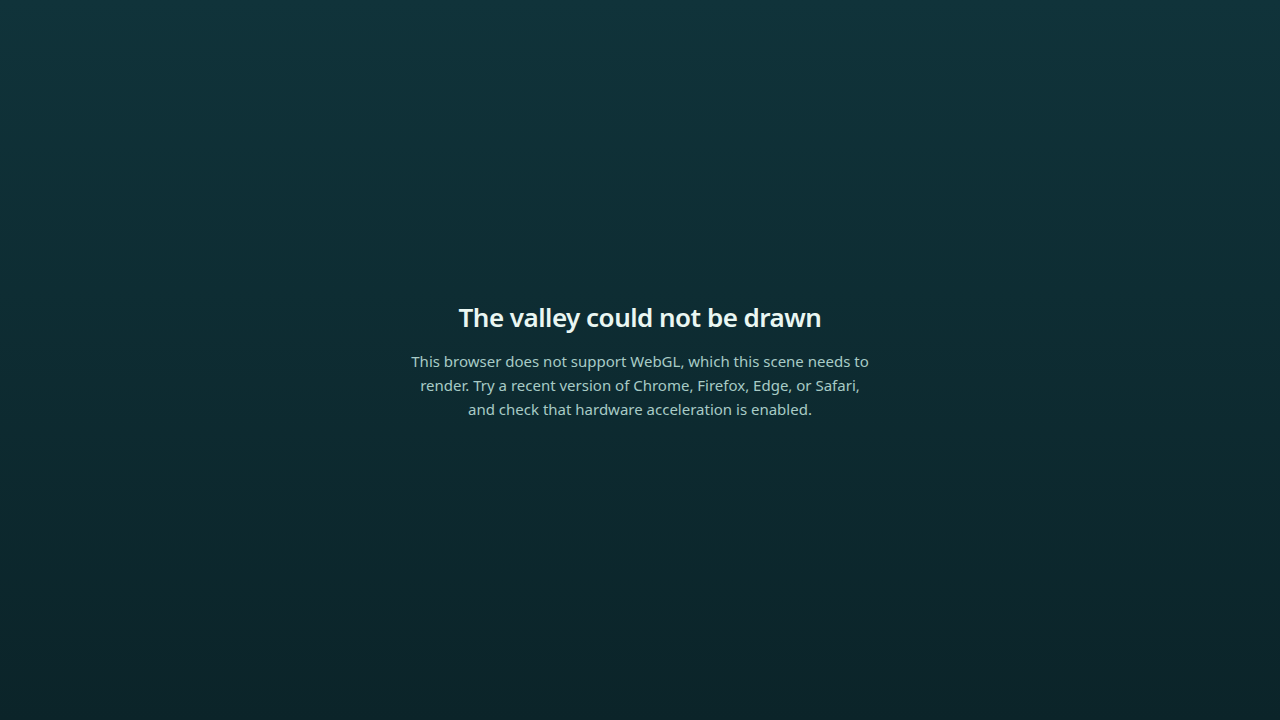
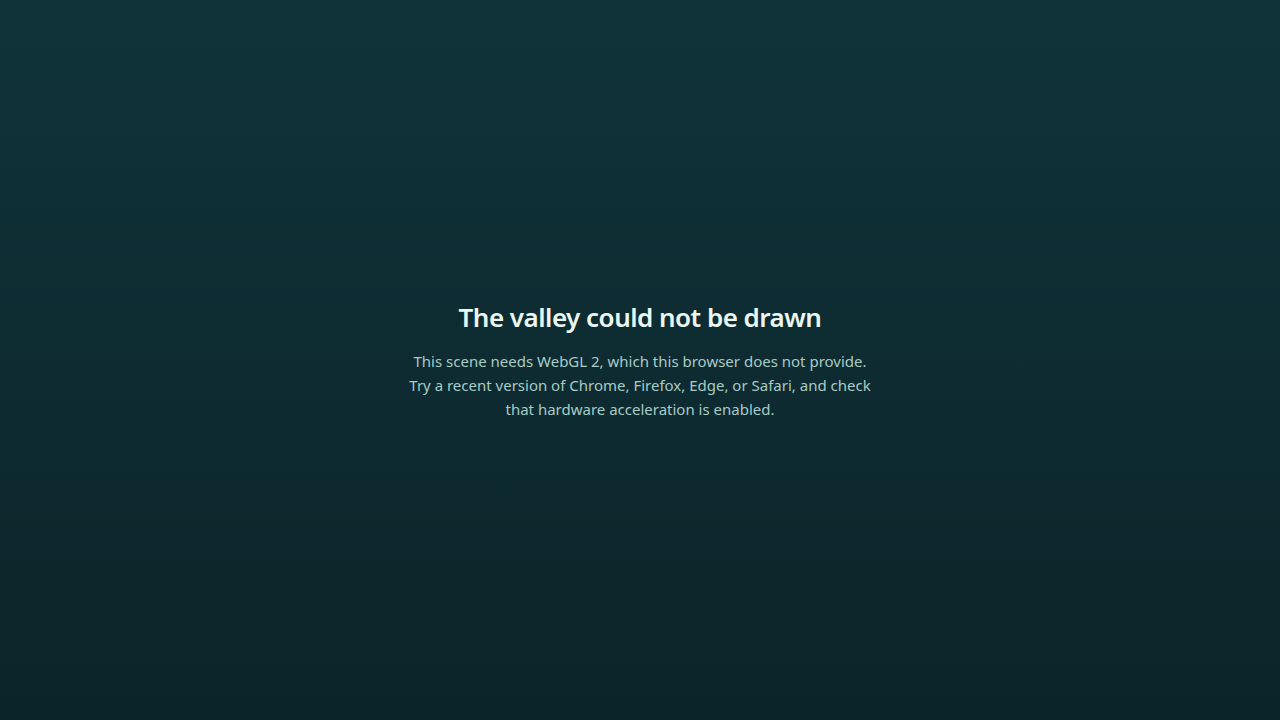
fix(app): require WebGL 2 in the capability probe
Owner review on PR #6 found that the probe accepted a WebGL 1 context. Verified
against the installed dependency: node_modules/three/build/three.module.js
(three 0.180.0) requests only `const contextName = 'webgl2'` and has no WebGL 1
fallback. A WebGL-1-only browser therefore passed the preflight and then failed
during renderer construction, taking the less accurate
`context-creation-failed` path.

- detectWebGLSupport probes webgl2 only, and the message now names WebGL 2.
- The unit test that asserted WebGL 1 was sufficient is replaced with one
  asserting it is rejected, plus a test that 'webgl' is never queried.
- The smoke test gains a webgl1-only scenario. Verified in a browser with webgl2
  denied: failure state no-webgl, no canvas, 0 uncaught errors.

Tests 43 -> 44, smoke checks 16 -> 20.

Changed region(s): [[0.3125, 0.4889, 0.6875, 0.5806]]

diff --git a/src/app/rendererGuard.test.ts b/src/app/rendererGuard.test.ts
@@ -23,19 +23,39 @@ describe('detectWebGLSupport', () => {
     expect(detectWebGLSupport(() => canvas)).toBeNull();
   });
 
-  it('accepts webgl1 as a fallback', () => {
+  // three.js 0.180.0's WebGLRenderer requests only the 'webgl2' context name,
+  // with no WebGL 1 fallback. A WebGL-1-only browser must therefore be rejected
+  // here, or it passes the preflight and fails later in renderer construction
+  // with the less accurate 'context-creation-failed' message.
+  it('rejects a WebGL 1-only browser', () => {
     const { canvas } = fakeCanvas({ webgl: glStub });
-    expect(detectWebGLSupport(() => canvas)).toBeNull();
+    const failure = detectWebGLSupport(() => canvas);
+
+    expect(failure?.kind).toBe('no-webgl');
+    expect(failure?.message).toMatch(/WebGL 2/i);
+  });
+
+  it('never queries a webgl1 context', () => {
+    const requested: string[] = [];
+    const canvas = {
+      getContext: (kind: string) => {
+        requested.push(kind);
+        return kind === 'webgl2' ? glStub : null;
+      },
+    } as unknown as HTMLCanvasElement;
+
+    detectWebGLSupport(() => canvas);
+    expect(requested).toEqual(['webgl2']);
   });
 
   // Finding 3: without this guard, an unsupported browser threw an uncaught
   // "Error creating WebGL context." and showed an unexplained blank shell.
-  it('reports a friendly failure when neither context is available', () => {
+  it('reports a friendly failure when no context is available', () => {
     const { canvas } = fakeCanvas({});
     const failure = detectWebGLSupport(() => canvas);
 
     expect(failure?.kind).toBe('no-webgl');
-    expect(failure?.message).toMatch(/does not support WebGL/i);
+    expect(failure?.message).toMatch(/WebGL 2/i);
     expect(failure?.message).toMatch(/Chrome|Firefox/i);
   });
 

diff --git a/src/app/rendererGuard.ts b/src/app/rendererGuard.ts
@@ -22,6 +22,19 @@ export interface RendererFailure {
  * real renderer so an unsupported browser produces a calm message instead of an
  * uncaught `Error creating WebGL context.`
  */
+/**
+ * Probes for a usable WebGL **2** context in a throwaway canvas.
+ *
+ * Returns null when a context is available. This runs *before* constructing the
+ * real renderer so an unsupported browser produces a calm message instead of an
+ * uncaught `Error creating WebGL context.`
+ *
+ * WebGL 2 is required, not merely preferred: three.js 0.180.0's WebGLRenderer
+ * requests the `'webgl2'` context name and has no WebGL 1 fallback. Accepting a
+ * WebGL 1 context here would let a WebGL-1-only browser pass the preflight and
+ * then fail during renderer construction, which reports the less accurate
+ * `context-creation-failed` message.
+ */
 export function detectWebGLSupport(
   createCanvas: () => HTMLCanvasElement = () => document.createElement('canvas'),
 ): RendererFailure | null {
@@ -37,7 +50,7 @@ export function detectWebGLSupport(
 
   let context: RenderingContext | null = null;
   try {
-    context = canvas.getContext('webgl2') ?? canvas.getContext('webgl');
+    context = canvas.getContext('webgl2');
   } catch {
     context = null;
   }
@@ -46,7 +59,7 @@ export function detectWebGLSupport(
     return {
       kind: 'no-webgl',
       message:
-        'This browser does not support WebGL, which this scene needs to render. ' +
+        'This scene needs WebGL 2, which this browser does not provide. ' +
         'Try a recent version of Chrome, Firefox, Edge, or Safari, and check that ' +
         'hardware acceleration is enabled.',
     };

diff --git a/docs/evidence/T00-007/PR_BODY.md b/docs/evidence/T00-007/PR_BODY.md
@@ -64,15 +64,15 @@ Commands run on this branch with observed results:
 
 | Command | Result |
 |---|---|
-| `npm test` | **43 passed / 43** (4 files) |
+| `npm test` | **44 passed / 44** (4 files) |
 | `npm run typecheck` | **clean** |
-| `npm run build` | **clean**, 498.51 kB JS / 128.01 kB gzip |
-| `npm run smoke` | **16 / 16 checks passed** |
+| `npm run build` | **clean** |
+| `npm run smoke` | **20 / 20 checks passed** |
 | `npm --prefix tools/assetforge run check` | **0** |
 | `npm --prefix tools/assetforge test` | **7 passed / 7** |
 
-New unit tests: `rendererGuard.test.ts` (13) and `resizeController.test.ts` (6).
-Totals moved from 24 to 43.
+New unit tests: `rendererGuard.test.ts` (14, including the WebGL-1-only case) and
+`resizeController.test.ts` (6). Totals moved from 24 to 44.
 
 ### `npm run smoke` output
 
@@ -88,6 +88,10 @@ PASS  no-WebGL sets a failure state — no-webgl
 PASS  no-WebGL shows a readable notice
 PASS  no-WebGL does not append a canvas
 PASS  no-WebGL throws no uncaught error
+PASS  webgl1-only sets a failure state — no-webgl
+PASS  webgl1-only names WebGL 2 in the message
+PASS  webgl1-only does not append a canvas
+PASS  webgl1-only throws no uncaught error
 PASS  context loss is detected — true
 PASS  context restore clears the lost flag
 PASS  canvas survives the restore
@@ -103,8 +107,9 @@ mode the ticket warned about.
 
 1. `npm install && npm run dev`
 2. Normal: the valley renders at `http://localhost:5173/`.
-3. No WebGL: open DevTools → Rendering → or block WebGL, then reload. Expect the
-   "The valley could not be drawn" notice and **no** uncaught error in console.
+3. No WebGL 2: block `webgl2` (or WebGL entirely) and reload. Expect the "The
+   valley could not be drawn" notice and **no** uncaught error in console. The
+   message names WebGL 2 specifically, since three.js has no WebGL 1 fallback.
 4. Context loss: in the console, take the canvas's `WEBGL_lose_context` extension
    and call `loseContext()`, then `restoreContext()`. Expect a console warning,
    `#app[data-context-lost]` during the loss, and a redrawn scene after restore.
@@ -133,7 +138,7 @@ touched. The look-dev evidence for T00-002 is unaffected.
 | One resize trigger path, or duplication documented | **pass** — single `ResizeObserver`; coalescing unit-tested |
 | Evidence captures state viewport, browser, commit | **pass** — `docs/evidence/T00-001/README.md` |
 | `npm test`, `typecheck`, `build` pass; no console errors | **pass** |
-| Each fix exercisable without WebGL has a unit test | **pass** — 19 new unit tests |
+| Each fix exercisable without WebGL has a unit test | **pass** — 20 new unit tests |
 
 ## Remaining work / known limits
 
@@ -155,8 +160,36 @@ touched. The look-dev evidence for T00-002 is unaffected.
 - [x] No scene composition, palette, or art-direction change.
 - [x] Human-only visual/narrative gates remain pending.
 
-## Handoff
+## Review responses
 
-- [x] Ticket acceptance criteria checked individually.
-- [ ] Follow-up tickets filed — none needed; finding 1 needs only a status note
-      from the planning agent.
+### WebGL 2 is now required, not just preferred — fixed
+
+The review was correct. Verified against the installed dependency rather than the
+docs: `node_modules/three/build/three.module.js` (three 0.180.0) requests only
+`const contextName = 'webgl2'` and has **no WebGL 1 fallback**. The original
+probe accepted `getContext('webgl')`, so a WebGL-1-only browser passed the
+preflight and then failed during renderer construction, reporting the less
+accurate `context-creation-failed` message.
+
+- `detectWebGLSupport()` now probes `webgl2` only.
+- The message names WebGL 2: "This scene needs WebGL 2, which this browser does
+  not provide."
+- The unit test that asserted WebGL 1 was sufficient has been replaced with one
+  asserting it is **rejected**, plus a test that `webgl1` is never queried.
+- A `webgl1-only` scenario was added to the smoke test. Verified in a browser
+  with `webgl2` denied: failure state `no-webgl`, no canvas, and **0** uncaught
+  errors.
+
+### Ticket authorization — owner action required
+
+The review is right that this is unresolved, and per `AGENTS.md` §6 I must not
+change it myself: *"Do not alter the official task status; the planning/review
+agent updates status after acceptance/merge."*
+
+Current state on `master`: the ticket header reads **PROPOSED — not scheduled**
+and `docs/TASKLIST.md` lists T00-007 as proposed and unscheduled. This branch was
+opened on the owner's explicit instruction to proceed with T00-007, which is why
+the work exists. **The ticket needs the planning/owner workflow to mark it READY
+(or otherwise authorize it) before this PR is treated as merge-ready.** I have
+deliberately left both files untouched so the status change is not made silently
+by the implementation worker.

diff --git a/README.md b/README.md
@@ -100,9 +100,9 @@ reference image.
 
 ### Shell smoke test
 
-To exercise the application shell headlessly — normal startup, the browser
-without WebGL, WebGL context loss and restore, and resize — and fail on any
-uncaught error:
+To exercise the application shell headlessly — normal startup, a browser with no
+WebGL, a WebGL-1-only browser, context loss and restore, and resize — and fail on
+any uncaught error:
 
 ```sh
 npm run smoke
@@ -112,15 +112,16 @@ Output and screenshots go to `docs/evidence/T00-007/`.
 
 ### When the scene cannot render
 
-If the browser has no WebGL, or cannot create a context, the shell shows a short
-explanation instead of a blank page. The canvas is not appended and no uncaught
+The scene requires **WebGL 2**: three.js 0.180.0 requests a `webgl2` context and
+has no WebGL 1 fallback. A browser that cannot provide one gets a short
+explanation instead of a blank page — the canvas is not appended and no uncaught
 error is thrown. If the GPU context is lost while the page is open, rendering
 pauses, a console warning is logged, and the scene redraws automatically once
 the browser restores the context.
 
 ```mermaid
 flowchart TD
-  A[Load page] --> B{WebGL available?}
+  A[Load page] --> B{WebGL 2 available?}
   B -- No --> C[Show "could not be drawn" notice]
   B -- Yes --> D[Create renderer and pipeline]
   D --> E[Observe host size]
